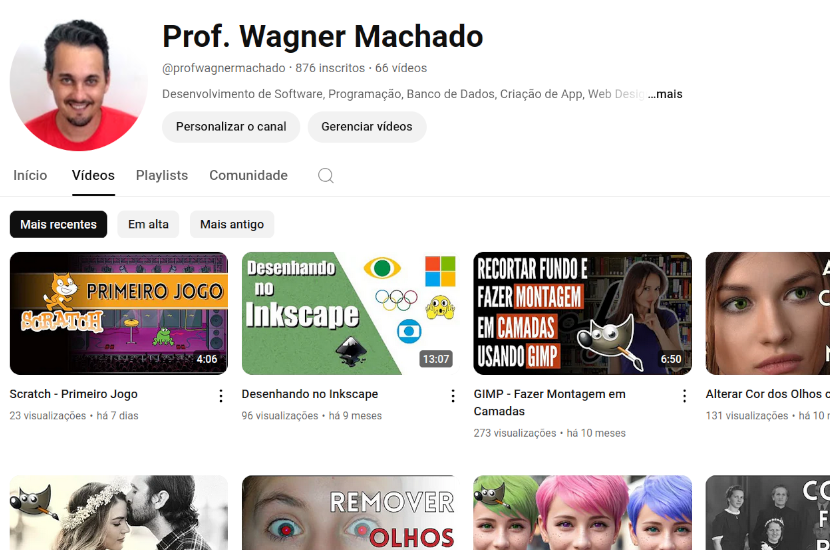
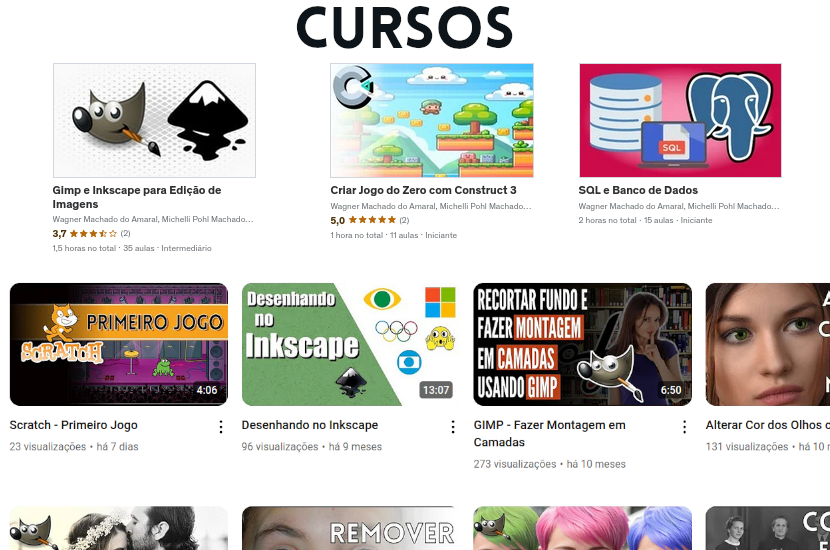
Add files via upload
Novos cursos adicionados

diff --git a/index.html b/index.html
@@ -32,8 +32,8 @@
         <div class="header-container header">
             <a class="navbar-brand logo" href="#"> <img class="logo" src="assets/images/photo.png"/> </a>
             <div class="header-right">
-                <a class="navbar-item" href="#features">Social</a>
-                <a class="navbar-item" href="#pricing">Destaques</a>
+                <a class="navbar-item" href="#features">Links</a>
+                <a class="navbar-item" href="#pricing">Cursos</a>
                 <a class="navbar-item" href="#team">Projetos</a>
             </div>
         </div>
@@ -68,53 +68,43 @@
 <!-- Features
   ================================================== -->
 
-<div id="features" class="features-section">
+  <div id="features" class="features-section">
 
     <div class="features-container row">
 
-        <h2 class="features-headline light">Social</h2>
 
-        <div class="col-sm-3 feature">
+        <div class="col-sm-4 feature">
             <a href="https://www.youtube.com/@profwagnermachado" target="new">
-            <div class="feature-icon feature-no-display">
+            <div class="feature-icon">
                 <img class="feature-img" src="assets/images/YouTube.png">
             </div>
             
-            <h5 class="feature-head-text feature-no-display"> YouTube </h5>
-            <p class="feature-subtext light feature-no-display"> 
+            <h5 class="feature-head-text "> YouTube </h5>
+            <p class="feature-subtext light "> 
                 @profwagnermachado</p>
             </a>
         </div>
 
-        <div class="col-sm-3 feature">
-            <div class="feature-icon feature-no-display feature-display-mid">
+        <div class="col-sm-4 feature">
+            
+            <a href="https://www.udemy.com/user/wagner-machado-do-amaral/" target="new">
+            <div class="feature-icon  feature-display-mid">
                 <img class="feature-img" src="assets/images/udemy.png">
             </div>
-            <h5 class="feature-head-text feature-no-display feature-display-mid"> Udemy </h5>
-            <p class="feature-subtext light feature-no-display feature-display-mid"> 
-                Confira cursos exclusivos!
-            </p>
-        </div>
-
-        <div class="col-sm-3 feature">
-            <a href="https://github.com/machadowma" target="new">
-            <div class="feature-icon feature-no-display feature-display-mid">
-                <img class="feature-img" src="assets/images/github.png">
-            </div>
-            <h5 class="feature-head-text feature-no-display feature-display-mid"> GitHub </h5>
-            <p class="feature-subtext light feature-no-display feature-display-mid"> 
-                Projetos
+            <h5 class="feature-head-text  feature-display-mid"> Udemy </h5>
+            <p class="feature-subtext light  feature-display-mid"> 
+                Cursos exclusivos!
             </p>
             </a>
         </div>
 
         <div class="col-sm-3 feature">
             <a href="http://lattes.cnpq.br/7045077075683706" target="new">
-            <div class="feature-icon feature-no-display feature-display-mid">
+            <div class="feature-icon  feature-display-mid">
                 <img class="feature-img" src="assets/images/lattes.png">
             </div>
-            <h5 class="feature-head-text feature-no-display feature-display-mid"> Currículo Lattes </h5>
-            <p class="feature-subtext light feature-no-display feature-display-mid"> 
+            <h5 class="feature-head-text  feature-display-mid"> Currículo Lattes </h5>
+            <p class="feature-subtext light  feature-display-mid"> 
                 Publicações e experiências
             </p>
             </a>
@@ -124,12 +114,28 @@
     </div> <!--features-container-->
 </div> <!--features-section-->
 
-<!-- Logos
-  ================================================== -->
 
 <div class="logos-section">
-    <img class="logos" src="assets/images/photo.png"/>
+    <a target="new" href="https://github.com/machadowma">
+        <img class="logos" src="assets/images/github_logo.png"/>
+    </a>
+    <a target="new" href="https://www.construct.net/en/users/1775364/machadowma">
+        <img class="logos" src="assets/images/Construct3.png"/>
+    </a>
+    <a target="new" href="https://scratch.mit.edu/users/machadowma/">
+        <img class="logos" src="assets/images/scratch.png"/>
+    </a>
+    <a target="new" href="https://pixabay.com/users/machadowma-20913155/">
+        <img class="logos" src="assets/images/pixabay.png"/>
+    </a>
+
+    
+    
 </div><!--logos-section-->
+
+
+
+
 
 <!-- White-Section
   ================================================== -->
@@ -137,7 +143,7 @@
 <div class="white-section row">
 
     <div class="imac col-sm-6">
-        <img class="imac-screen img-responsive" src="assets/images/imac.png">
+        <img class="imac-screen img-responsive" src="assets/images/imac.png">        
     </div>
     <!--imac-->
 
@@ -170,17 +176,15 @@
         
 
         <div class="col-sm-4">
-            <div class="plan">
-                
-                <h4 class="plan-title bold">DISPOSITIVOS MÓVEIS</h4>
+            <div class="mid-plan">
+                <h4 class="plan-title bold">Criar Jogo do Zero com Construct 3</h4>
+                <img class="curso" src="assets/images/curso_construct.jpg" alt=""/>
                 <ul class="plan-features">
-                    <li>Mais de 10 aulas gravadas</li>
-                    <li>100% grátis</li>
-                    <li>13 mil visualizações</li>
+                    <li>Aprenda a criar jogos 2D.</li>
                 </ul>
                 <div class="plan-price-div text-center">
                     <div class="choose-plan-div">
-                        <a class="plan-btn light" target="new" href="https://youtube.com/playlist?list=PLK9MWsE3ev06gntM1UQme9_ltjxCeUiew&feature=shared">
+                        <a class="plan-btn light" target="new" href="https://www.udemy.com/course/criar-jogo-do-zero-com-construct-3/">
                             Entrar
                         </a>
                     </div>
@@ -190,15 +194,14 @@
 
         <div class="col-sm-4">
             <div class="mid-plan">
-                <h3 class="plan-title bold">BANCO DE DADOS</h3>
+                <h4 class="plan-title bold">Gimp e Inkscape para Edição de Imagens</h4>
+                <img class="curso" src="assets/images/curso_images.png" alt=""/>
                 <ul class="plan-features">
-                    <li>Mais de 10 aulas gravadas</li>
-                    <li>100% grátis</li>
-                    <li>15 mil visualizações</li>
+                    <li>Editar fotos digitais e criar desenhos vetoriais.</li>
                 </ul>
                 <div class="plan-price-div text-center">
                     <div class="choose-plan-div">
-                        <a class="plan-btn light" target="new" href="https://youtube.com/playlist?list=PLK9MWsE3ev07vJus68hqclQoEPZcNKlC8&feature=shared">
+                        <a class="plan-btn light" target="new" href="https://www.udemy.com/course/gimp-inkscape-edicao-imagens/">
                             Entrar
                         </a>
                     </div>
@@ -207,21 +210,20 @@
         </div><!--col-->
 
         <div class="col-sm-4">
-            <div class="plan">
-                <h3 class="plan-title bold">Edição de Imagem, Áudio e Vídeo</h3>
+            <div class="mid-plan">
+                <h4 class="plan-title bold">SQL e Banco de Dados</h4>
+                <img class="curso" src="assets/images/curso_sql.png" alt=""/>
                 <ul class="plan-features">
-                    <li>Mais de 10 aulas gravadas</li>
-                    <li>100% grátis</li>
-                    <li>4,4 mil visualizações</li>
+                    <li>SQL para Criar Tabelas e Fazer Consultas.</li>
                 </ul>
                 <div class="plan-price-div text-center">
                     <div class="choose-plan-div">
-                        <a class="plan-btn light" target="new" href="https://youtube.com/playlist?list=PLK9MWsE3ev05X2wKS7x6REmAZA1xmBxyk&feature=shared">
+                        <a class="plan-btn light" target="new" href="https://www.udemy.com/course/programacao-e-banco-de-dados/">
                             Entrar
                         </a>
                     </div>
                 </div>
-            </div><!--basic-plan--->
+            </div><!--pro-plan--->
         </div><!--col-->
 
         
@@ -234,12 +236,24 @@
   ================================================== -->
 
 <div id="team" class="team">
-    <h2 class="team-section-header light text-center">Projetos</h2>
+    <h2 class="team-section-header light text-center">Outros Projetos</h2>
 
     <div class="team-container row">
 
+        
 
-        <div class="col-sm-4 team-member">
+
+        <div class="col-sm-3 team-member">
+            <img src="assets/images/jogo_life.png">
+            <div class="team-member-text">
+                <h4 class="team-member-position light">Life</h4>
+                <h5 class="bold">Jogo em Construct</h5>
+                <p class="light">Teste ou baixe o projeto</p>
+                <a href="https://www.construct.net/en/free-online-games/life-69596/play/" target="new">Link</a>
+            </div>
+        </div>
+
+        <div class="col-sm-3 team-member">
             <img src="assets/images/js.png">
             <div class="team-member-text">
                 <h4 class="team-member-position light">JavaScript</h4>
@@ -249,10 +263,9 @@
                 &nbsp;|&nbsp;
                 <a href="https://github.com/machadowma/javascript" target="new">Source</a>
             </div>
-
         </div>
 
-        <div class="col-sm-4 team-member">
+        <div class="col-sm-3 team-member">
             <img src="assets/images/android.png">
             <div class="team-member-text">
                 <h4 class="team-member-position light">Android Studio</h4>
@@ -264,7 +277,7 @@
             </div>
         </div>
 
-        <div class="col-sm-4 team-member">
+        <div class="col-sm-3 team-member">
             <img src="assets/images/anotamob.png">
             <div class="team-member-text">
                 <h4 class="team-member-position light">Android Studio</h4>
@@ -275,7 +288,7 @@
         </div>
 
         
-        <! -- .row -->
+
 
     </div> <!--team-container--->
 

diff --git a/assets/css/style.css b/assets/css/style.css
@@ -152,7 +152,11 @@ body {
 
 .logos {
     padding: 30px;
-    max-width: 100%;
+    max-width: 20px;
+}
+.curso {
+    padding: 10px;
+    max-width: 300px;
 }
 
 .features-section {
@@ -228,7 +232,7 @@ body {
 }
 
 .feature-img {
-    max-width: 23px;
+    max-width: 55px;
 }
 
 .white-section {
